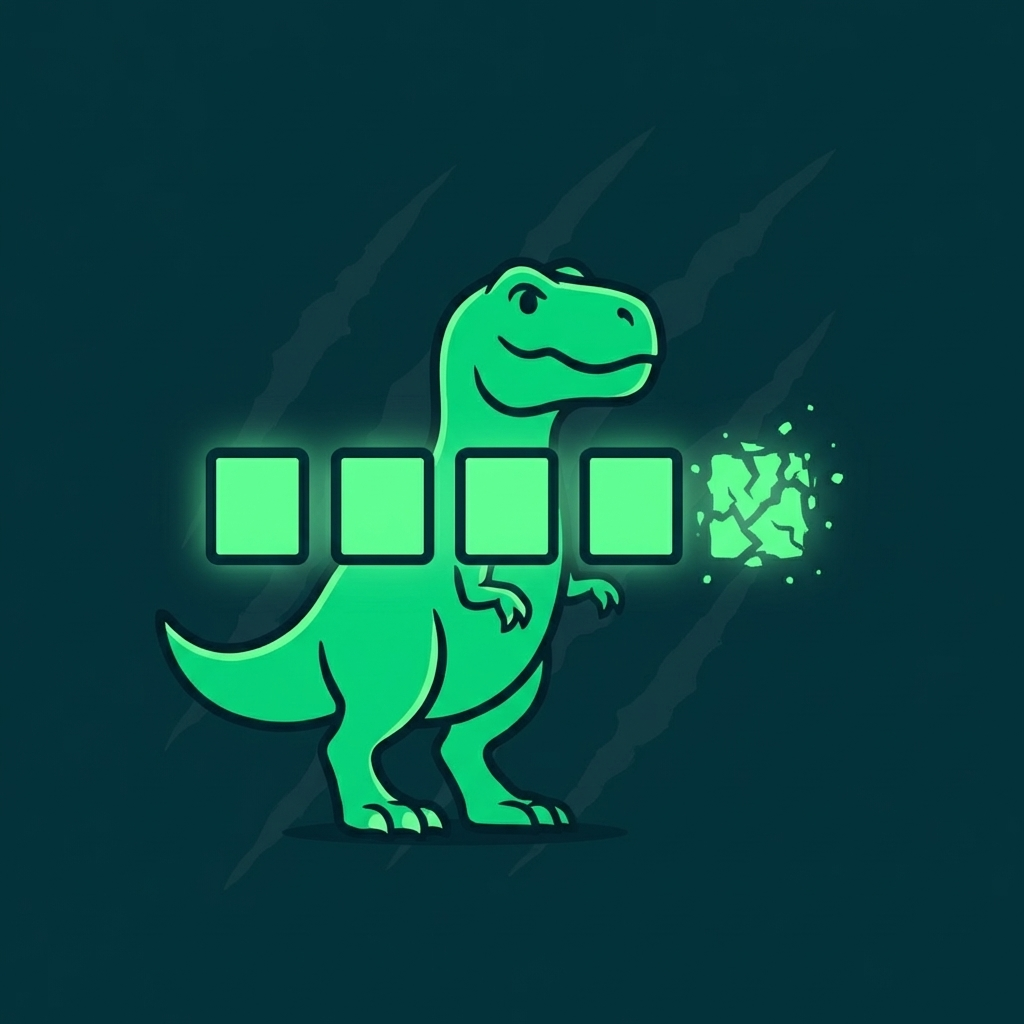
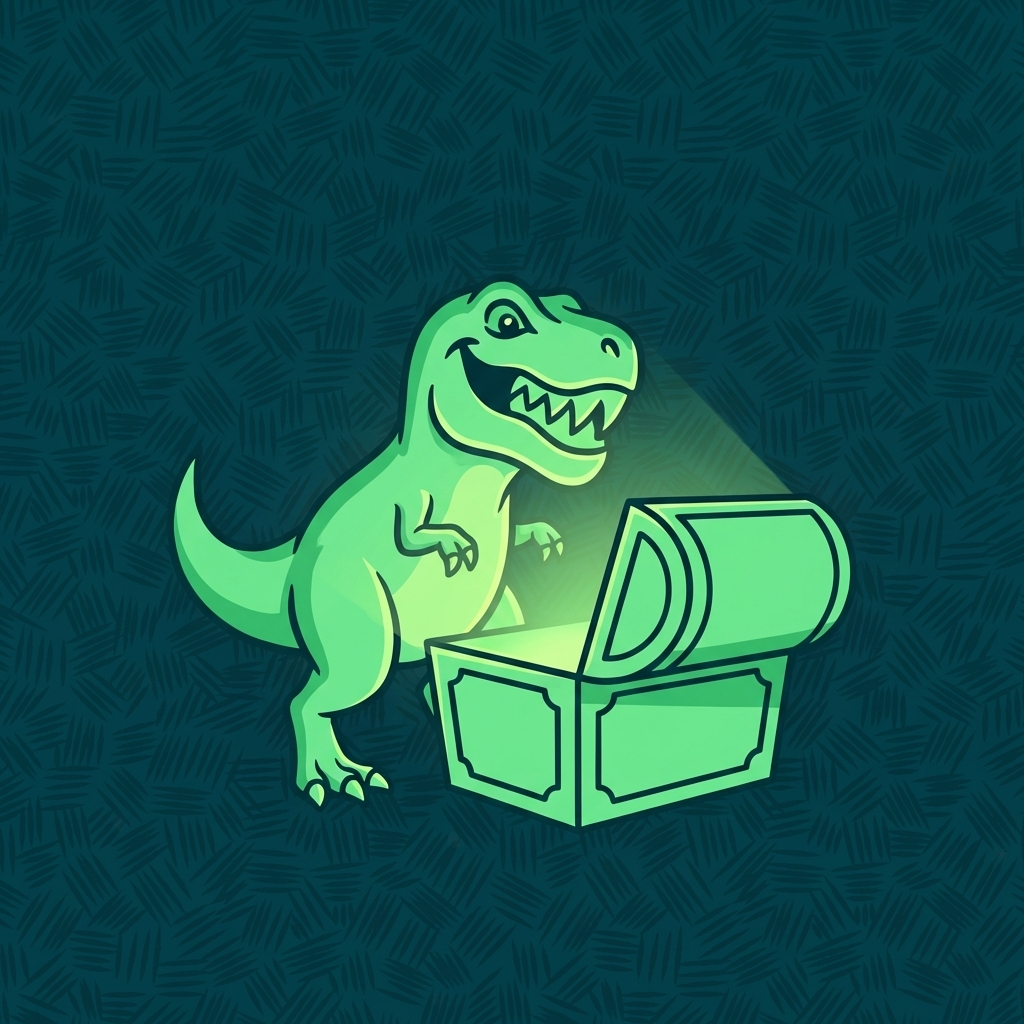
feat: replace section 1 image with T-Rex opening treasure chest
Better first impression — curious dino discovering what's inside AI.

Changed region(s): [[0.1562, 0.25, 0.8438, 0.8438]]

diff --git a/public/pre-read/index.html b/public/pre-read/index.html
@@ -69,7 +69,7 @@
 <h2>1. The Mental Model</h2>
 
 <aside class="section-image">
-  <img src="../images/slides/mental-model-square.jpg" alt="Illustration: T-Rex with a sequence of blocks, the last one materializing — representing next-token prediction" />
+  <img src="../images/slides/mental-model-square.jpg" alt="Illustration: T-Rex opening a glowing treasure chest — discovering what's inside AI" />
 </aside>
 
 <p>Every interaction with AI runs on the same basic loop: you send text in, the model processes it, and text comes back. Understanding what's happening under the hood helps you debug problems and get better results.</p>
